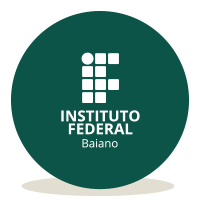
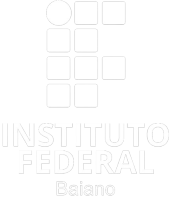
troca de fotos e mudança no max-width no style.css

diff --git a/css/style.css b/css/style.css
@@ -2,9 +2,8 @@
 :root {
   --main-color: rgb(0, 137, 48);
   --second-color: rgb(0, 76, 50);
-  --contrast-color:rgb(225, 8, 0);
+  --contrast-color: rgb(225, 8, 0);
 }
-
 
 /* reseta as configurações da pagina */
 * {
@@ -17,16 +16,16 @@
 }
 
 /* configurações da scrol bar  */
-html{
+html {
   overflow: scroll;
   overflow-x: hidden;
 }
 
-::-webkit-scrollbar-thumb{
+::-webkit-scrollbar-thumb {
   width: 20px;
 }
 
-::-webkit-scrollbar-track{
+::-webkit-scrollbar-track {
   visibility: hidden;
 }
 
@@ -78,7 +77,7 @@ header {
 }
 
 .logo_if img {
-  max-width: 15%;
+  max-width: 12%;
 }
 
 /* nav do header  */
@@ -130,8 +129,6 @@ a:visited {
 }
 /* ======== HEADER ======== */
 
-
-
 section {
   width: 100%;
 }
@@ -180,19 +177,19 @@ section {
   background-color: #dddddd;
 }
 
-.dropdown_menu-1 .dropdown_item-1{
+.dropdown_menu-1 .dropdown_item-1 {
   transform-origin: top center;
   animation: rotateZ 200ms 30ms ease-in-out forwards;
 }
-.dropdown_menu-1 .dropdown_item-2{
+.dropdown_menu-1 .dropdown_item-2 {
   transform-origin: top center;
   animation: rotateZ 200ms 60ms ease-in-out forwards;
 }
-.dropdown_menu-1 .dropdown_item-3{
+.dropdown_menu-1 .dropdown_item-3 {
   transform-origin: top center;
   animation: rotateZ 200ms 90ms ease-in-out forwards;
 }
-.dropdown_menu-1 .dropdown_item-4{
+.dropdown_menu-1 .dropdown_item-4 {
   transform-origin: top center;
   animation: rotateZ 200ms 120ms ease-in-out forwards;
 }
@@ -217,7 +214,7 @@ section {
   }
 }
 
-.center-cont{
+.center-cont {
   display: flex;
   flex-direction: column;
   max-width: 850px;
@@ -226,42 +223,43 @@ section {
   margin: 32px auto;
 }
 
-.conteudo-main{
+.conteudo-main {
   max-width: 850px;
   margin: auto;
   gap: 12px;
 }
 
-.conteudo-main h2{
+.conteudo-main h2 {
   font-size: 28px;
   padding-bottom: 8px;
 }
 
-.melhores-top{
+.melhores-top {
   display: flex;
   justify-content: space-between;
 }
 
-.melhores-botton{
+.melhores-botton {
   display: flex;
   justify-content: space-between;
 }
 
-.melhores-top img, .melhores-botton img{
+.melhores-top img,
+.melhores-botton img {
   padding: 16px 0;
 }
 
-.separador{
+.separador {
   margin: 20px 0;
 }
 
-.zoom{
-  transition: .5s;
+.zoom {
+  transition: 0.5s;
 }
 
-.zoom:hover{
+.zoom:hover {
   transform: scale(1.12);
-  transition: .5s;
+  transition: 0.5s;
 }
 
 footer {
@@ -280,55 +278,53 @@ footer p {
 
 .barra-inferior {
   height: 40px;
-  background-color: #00420C;
+  background-color: #00420c;
 }
 
-
-@media (max-width: 992px){
-  .melhores-botton{
+@media (max-width: 992px) {
+  .melhores-botton {
     display: none;
   }
 
-  header{
+  header {
     max-width: 100%;
   }
-  
+
   header h1 {
     max-width: 100%;
   }
-  
-  #color{
-    padding-inline: .7rem;
+
+  #color {
+    padding-inline: 0.7rem;
     font-size: 40px;
   }
 
-  .melhores-top{
+  .melhores-top {
     flex-flow: column nowrap;
   }
 
-  .melhores-top img{
+  .melhores-top img {
     max-width: 100%;
     min-width: 330px;
   }
 
-  .conteudo-main h2{
+  .conteudo-main h2 {
     font-size: 28px;
     padding-bottom: 8px;
     text-align: center;
-  } 
+  }
 
   .logo_if img {
     max-width: 24%;
   }
-
 }
 
-@media (max-width: 630px){
+@media (max-width: 630px) {
   .logo_if img {
     max-width: 38%;
   }
 
   .span-hb {
-    font-size: .7rem;
+    font-size: 0.7rem;
   }
 }
